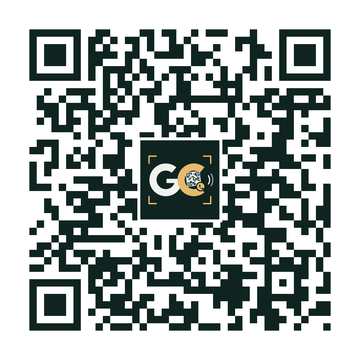
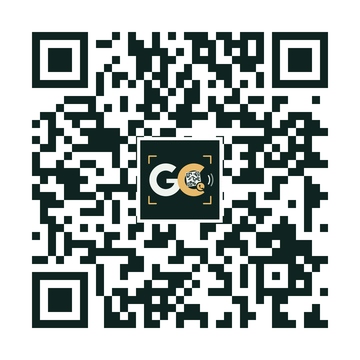
Use the Gate Call web address gatecall.camedia.online
Claude-Session: https://claude.ai/code/session_012mZJG4DLkUaS5QwXyHDjwy

diff --git a/app/index.html b/app/index.html
@@ -35,7 +35,7 @@
 <main>
   <header><img src="icon.png" alt=""><h1>Gate <span>Call</span></h1></header>
   <img class="hero" src="splash.jpg" alt="A courier scans the Gate Call sign on a gate and the owner answers from the beach">
-  <a class="btn" id="dl" href="https://ntsakolepere.github.io/gatecall-visit/app/GateCall.apk">⬇ Download for Android</a>
+  <a class="btn" id="dl" href="https://gatecall.camedia.online/app/GateCall.apk">⬇ Download for Android</a>
   <p class="sub" id="ver">Free download for Android phones</p>
 
   <div class="card qr">
